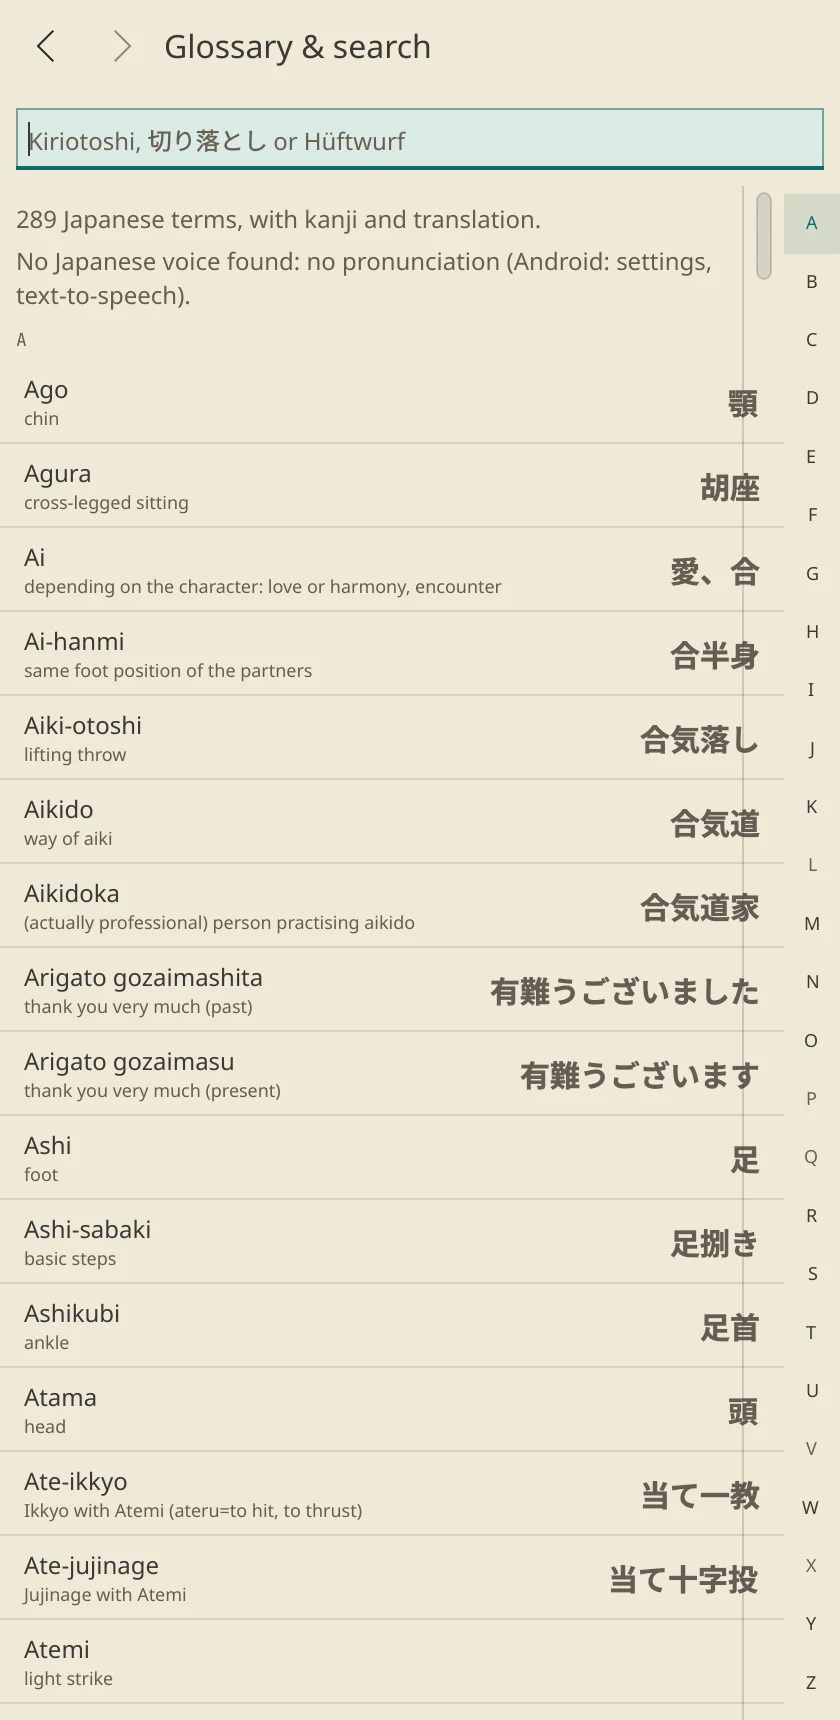
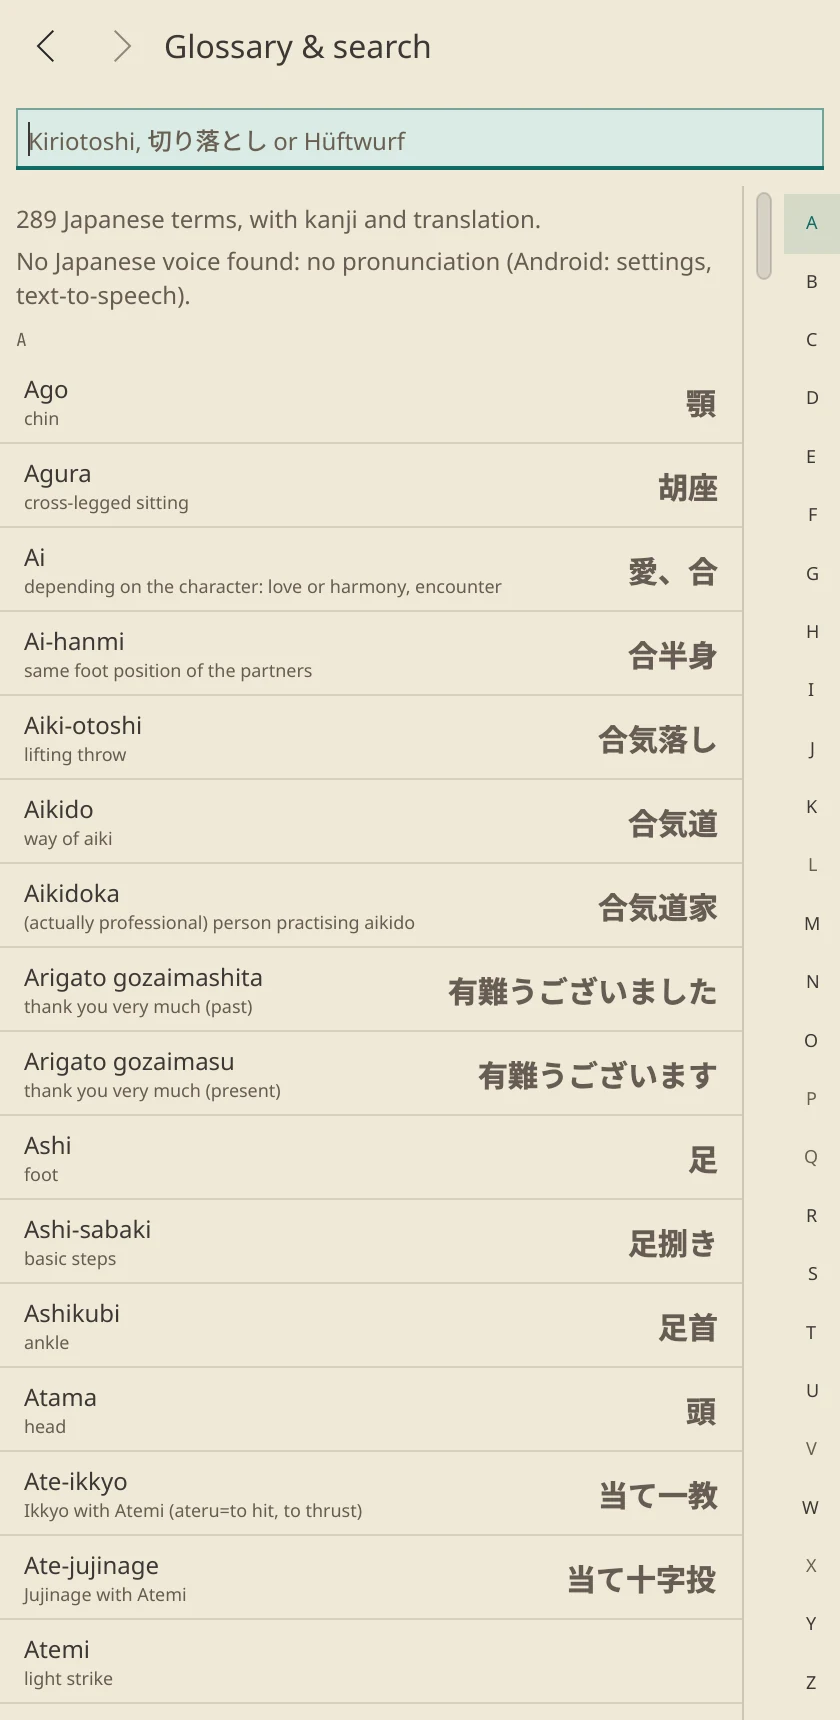
Name the remaining fixes in the 0.4.0 notes
Review of #163: Back leaving the player playing, Escape on every
page, the interface seen building up on Android and the title bar's
platform colours were fixed since 0.3.0 but missing from the notes.
The glossary shot is retaken with the scroll bar fix.

diff --git a/docs/index.html b/docs/index.html
@@ -232,6 +232,10 @@
         <div class="release-group" data-kind="fixed"><h3><span lang="en">Fixed</span><span lang="de">Behoben</span></h3><ul>
           <li><span lang="en">Videos: a failed update of the videos no longer loses the ones already loaded; they stay until the new ones are in place. A download waiting for Wi-Fi now starts by itself when Wi-Fi or a cable comes.</span><span lang="de">Videos: Ein gescheitertes Update der Videos verliert die schon geladenen nicht mehr; sie bleiben, bis die neuen bereitliegen. Ein Download, der auf WLAN wartet, startet jetzt von selbst, sobald WLAN oder ein Kabel da ist.</span></li>
           <li><span lang="en">Kante style: disabled buttons and fields on the pages showed the platform's colours instead of Kante's.</span><span lang="de">Stil Kante: deaktivierte Knöpfe und Felder auf den Seiten zeigten die Farben der Plattform statt die von Kante.</span></li>
+          <li><span lang="en">Player: the Back key (Android, Alt+Left) left the player playing unseen in the background; it now leaves it, as Escape does.</span><span lang="de">Player: Die Zurück-Taste (Android, Alt+Links) ließ den Player unsichtbar im Hintergrund weiterspielen; jetzt verlässt sie ihn wie Escape.</span></li>
+          <li><span lang="en">Desktop: Escape goes back one page on every page, not only in the player. In a field with text it first leaves the field, so the text stays.</span><span lang="de">Desktop: Escape geht auf jeder Seite eine Seite zurück, nicht nur im Player. In einem Feld mit Text verlässt es zuerst das Feld, der Text bleibt.</span></li>
+          <li><span lang="en">Android: at start and after a change of style the interface was seen building up; it now shows once it stands.</span><span lang="de">Android: Beim Start und nach einem Wechsel des Stils sah man die Oberfläche sich aufbauen; jetzt erscheint sie, wenn sie steht.</span></li>
+          <li><span lang="en">Kante and Leinen: the title bar showed the platform's colours (on Android a pale white).</span><span lang="de">Kante und Leinen: Die Titelleiste zeigte die Farben der Plattform (unter Android ein blasses Weiß).</span></li>
         </ul></div>
         <div class="release-group" data-kind="note"><h3><span lang="en">Note</span><span lang="de">Hinweis</span></h3><ul>
           <li><span lang="en">Videos: the "Video folder" setting for video files of one's own is gone. Such files rarely fit the cut points of the techniques; the videos come with the DVD codes.</span><span lang="de">Videos: Die Einstellung „Videoordner“ für eigene Videodateien entfällt. Solche Dateien passen selten zu den Stellen der Techniken; die Videos kommen mit den Codes der DVDs.</span></li>

diff --git a/CHANGELOG.md b/CHANGELOG.md
@@ -30,6 +30,10 @@ Learning videos with techniques of their own, a new start menu of tiles and a da
 #### Fixed
 - Videos: a failed update of the videos no longer loses the ones already loaded; they stay until the new ones are in place. A download waiting for Wi-Fi now starts by itself when Wi-Fi or a cable comes.
 - Kante style: disabled buttons and fields on the pages showed the platform's colours instead of Kante's.
+- Player: the Back key (Android, Alt+Left) left the player playing unseen in the background; it now leaves it, as Escape does.
+- Desktop: Escape goes back one page on every page, not only in the player. In a field with text it first leaves the field, so the text stays.
+- Android: at start and after a change of style the interface was seen building up; it now shows once it stands.
+- Kante and Leinen: the title bar showed the platform's colours (on Android a pale white).
 
 #### Note
 - Videos: the "Video folder" setting for video files of one's own is gone. Such files rarely fit the cut points of the techniques; the videos come with the DVD codes.
@@ -62,6 +66,10 @@ Lernvideos mit eigenen Techniken, ein neues Startmenü aus Kacheln und ein dunkl
 #### Behoben
 - Videos: Ein gescheitertes Update der Videos verliert die schon geladenen nicht mehr; sie bleiben, bis die neuen bereitliegen. Ein Download, der auf WLAN wartet, startet jetzt von selbst, sobald WLAN oder ein Kabel da ist.
 - Stil Kante: deaktivierte Knöpfe und Felder auf den Seiten zeigten die Farben der Plattform statt die von Kante.
+- Player: Die Zurück-Taste (Android, Alt+Links) ließ den Player unsichtbar im Hintergrund weiterspielen; jetzt verlässt sie ihn wie Escape.
+- Desktop: Escape geht auf jeder Seite eine Seite zurück, nicht nur im Player. In einem Feld mit Text verlässt es zuerst das Feld, der Text bleibt.
+- Android: Beim Start und nach einem Wechsel des Stils sah man die Oberfläche sich aufbauen; jetzt erscheint sie, wenn sie steht.
+- Kante und Leinen: Die Titelleiste zeigte die Farben der Plattform (unter Android ein blasses Weiß).
 
 #### Hinweis
 - Videos: Die Einstellung „Videoordner“ für eigene Videodateien entfällt. Solche Dateien passen selten zu den Stellen der Techniken; die Videos kommen mit den Codes der DVDs.
